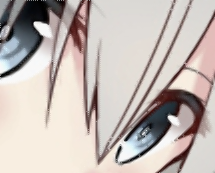
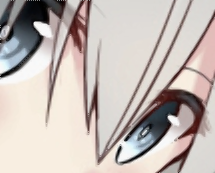
remake Kyo-fcbi.png by v1.5

diff --git a/content/2017/03/07/fcbi.md b/content/2017/03/07/fcbi.md
@@ -107,7 +107,7 @@ Lanczoz (lobes:3) | Mitchell | FCBI (TM:4 で2回拡大) |
 Nearest-Neighbor | Bi-Liner | Bi-Cubic (B,C = 1,0) |
 ----------------|----------|----------|
 <img src="../Kyo-box.png"/>|<img src="../Kyo-triangle.png"/>|<img src="../Kyo-cubic.png"/>|
-Lanczoz (lobes:3) | Mitchell | FCBI (TM:46) |
+Lanczoz (lobes:3) | Mitchell | FCBI (TM:20) |
 <img src="../Kyo-lanczos.png"/>|<img src="../Kyo-mitchell.png"/>|<img src="../Kyo-fcbi.png"/>|
 
 FCBI の方がドット感が消えて線が自然に繋がっているように見えます。
